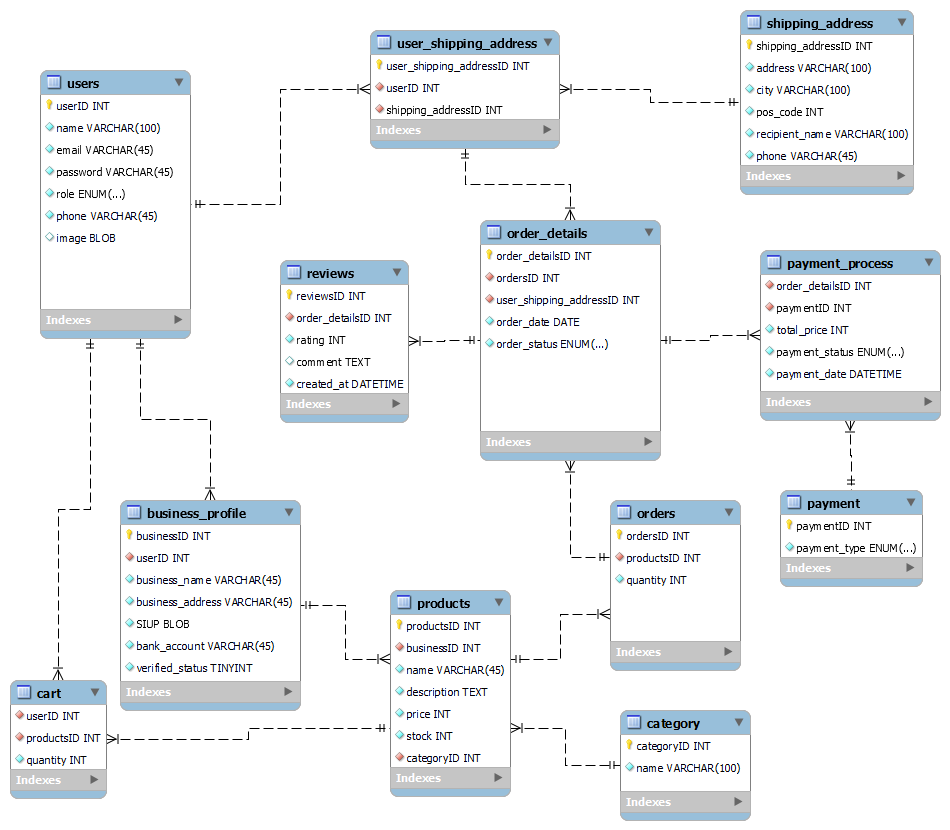
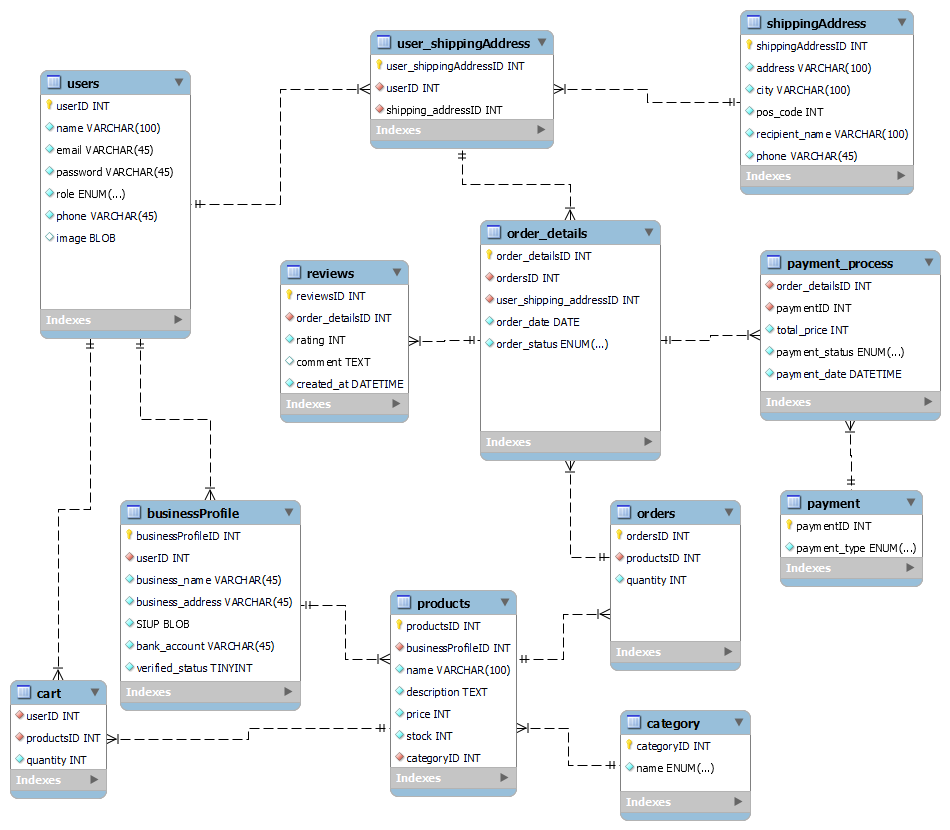
migration category

diff --git a/pasarJuku/database/migrations/2024_12_03_162248_create_categories_table.php b/pasarJuku/database/migrations/2024_12_03_162248_create_categories_table.php
@@ -1,0 +1,44 @@
+
+<?php
+
+use Illuminate\Database\Migrations\Migration;
+use Illuminate\Database\Schema\Blueprint;
+use Illuminate\Support\Facades\Schema;
+
+return new class  extends Migration
+{
+        /**
+     * Run the migrations.
+     */
+    public function up()
+    {
+        Schema::disableForeignKeyConstraints();
+        Schema::dropIfExists('category');
+        Schema::create('category', function (Blueprint $table) {
+            $table->engine = 'InnoDB';
+            $table->id('categoryID');
+            $table->enum('category', [
+                'Ikan Mas',
+                'Ikan Nila',
+                'Ikan Lele',
+                'Ikan Patin',
+                'Ikan Gurame',
+                'Ikan Mujair',
+                'Ikan Gabus',
+                'Ikan Bawal',
+                'Udang Air Tawar',
+                'Teri Air Tawar',
+                'Belut'
+            ]);
+        });
+        Schema::enableForeignKeyConstraints();
+    }
+
+    /**
+     * Reverse the migrations.
+     */
+    public function down()
+    {
+        Schema::dropIfExists('category');
+    }
+};

diff --git a/pasarJuku/database/migrations/2024_12_03_161906_create_payments_table.php b/pasarJuku/database/migrations/2024_12_03_161906_create_payments_table.php
@@ -1,9 +1,4 @@
-
 <?php
-        /**
-     *namespace Database\Migrations;
-     */
-
 
 use Illuminate\Database\Migrations\Migration;
 use Illuminate\Database\Schema\Blueprint;
@@ -20,10 +15,10 @@ return new class  extends Migration
         Schema::dropIfExists('payment');
         Schema::create('payment', function (Blueprint $table) {
             $table->engine = 'InnoDB';
-            $table->increments('paymentID');
+            $table->id('paymentID');
             $table->enum('payment_type', ['BCA', 'gopay', 'DANA', 'OVO']);
         });
- Schema::enableForeignKeyConstraints();
+        Schema::enableForeignKeyConstraints();
     }
 
     /**

diff --git a/pasarJuku/app/Models/category.php b/pasarJuku/app/Models/category.php
@@ -1,0 +1,10 @@
+<?php
+
+namespace App\Models;
+
+use Illuminate\Database\Eloquent\Model;
+
+class category extends Model
+{
+    //
+}
